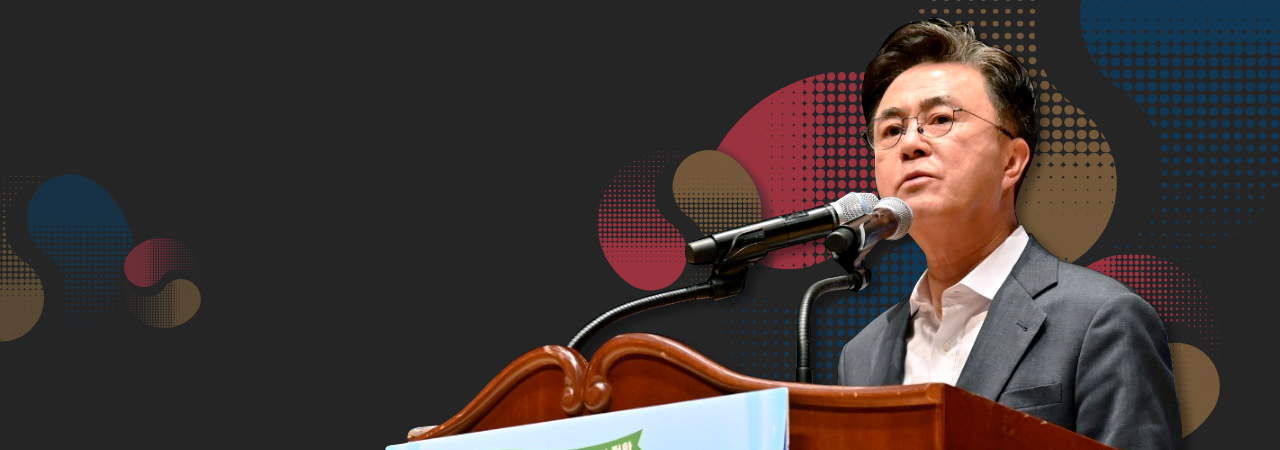
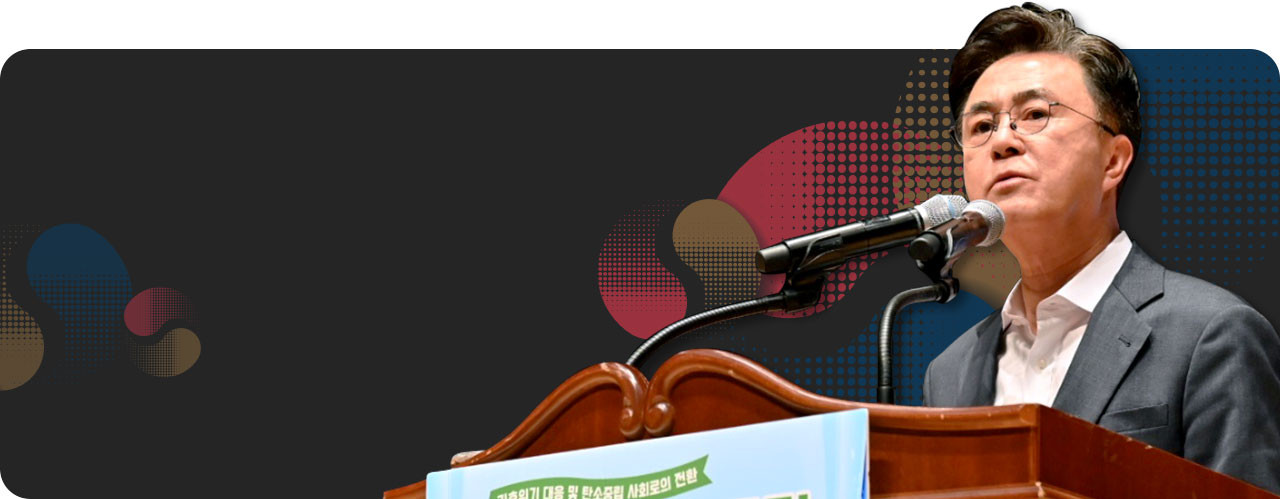
메인페이지 배너 콘텐츠 수정

diff --git a/index.html b/index.html
@@ -135,10 +135,10 @@
             <div class="main_economy_wrap">
               <!-- item { -->
               <div class="main_economy_box">
-                <a href="./sub/future.html" class="main_economy_item item01">
+                <a href="./sub/living.html" class="main_economy_item item04">
                   <div class="f_gmarket text_box">
-                    <p class="text01">미래경제</p>
-                    <p class="text02">저탄소 新산업</p>
+                    <p class="text02">도민 탄소중립 확산</p>
+                    <p class="text01">생활경제</p>
                   </div>
                 </a>
               </div>
@@ -147,8 +147,8 @@
               <div class="main_economy_box">
                 <a href="./sub/transitional.html" class="main_economy_item item02">
                   <div class="f_gmarket text_box">
-                    <p class="text01">전환경제</p>
                     <p class="text02">에너지 전환</p>
+                    <p class="text01">전환경제</p>
                   </div>
                 </a>
               </div>
@@ -157,18 +157,18 @@
               <div class="main_economy_box">
                 <a href="./sub/circular.html" class="main_economy_item item03">
                   <div class="f_gmarket text_box">
-                    <p class="text01">순환경제</p>
                     <p class="text02">산업구조 저탄소화</p>
+                    <p class="text01">순환경제</p>
                   </div>
                 </a>
               </div>
               <!-- } item -->
               <!-- item { -->
               <div class="main_economy_box">
-                <a href="./sub/living.html" class="main_economy_item item04">
+                <a href="./sub/future.html" class="main_economy_item item01">
                   <div class="f_gmarket text_box">
-                    <p class="text01">생활경제</p>
-                    <p class="text02">도민 탄소중립 확산</p>
+                    <p class="text02">저탄소 新산업</p>
+                    <p class="text01">미래경제</p>
                   </div>
                 </a>
               </div>

diff --git a/src/css/normal.css b/src/css/normal.css
@@ -54,14 +54,12 @@
 .main_banner_wrap {margin: -30px;}
 .main_banner_box {padding: 30px;}
 .main_banner_item {border-radius: 30px; display: block; position: relative; overflow: hidden; font-size: 0;}
-.main_banner_item.item01 {}
-.main_banner_item.item02 {}
-.main_banner_item.item03 {}
 .main_banner_bg {position: relative; height: 0; padding-bottom: 35.157%;}
 .main_banner_bg img {position: absolute; top: 50%; left: 50%; transform: translate(-50%,-50%); width: 100%;}
 .main_banner_text {font-weight: 700; font-size: 3.5rem; line-height: 1.17; color: #fff;}
 .main_banner_text .green {font-size: 4.25rem; color: #57e5bb;}
-.main_banner_item.item01 .main_banner_text {position: absolute; top: 4.1875rem; left: 4.1875rem;}
+.main_banner_item.item01 .main_banner_bg {padding-bottom: 39%;}
+.main_banner_item.item01 .main_banner_text {position: absolute; top: 8rem; left: 4.1875rem;}
 .main_banner_item.item02 .main_banner_text {position: absolute; top: 47%; left: 50%; transform: translate(-50%,-50%); max-width: 100%;  font-size: 3.75rem; color: #fff; line-height: 1; white-space: nowrap;}
 .main_banner_item.item02 .main_banner_text:after {content: attr(data-shadow-text); position: absolute; top: 0; left: 0; z-index: -1; color: #303c98; -webkit-text-stroke: 14px;}
 .main_banner_item.item03 .main_banner_text {position: absolute; top: 37%; left: 50%; transform: translate(-50%,-50%); font-size: 0; font-weight: 700; font-size: 3.75rem; line-height: 1.266; text-align: center;}
@@ -79,7 +77,7 @@
 
 .main_economy_item .text_box {}
 .main_economy_item .text_box .text01 {font-weight: 700; font-size: 3.75rem; line-height: 1.26;}
-.main_economy_item .text_box .text02 {font-weight: 500; font-size: 1.625rem;}
+.main_economy_item .text_box .text02 {font-weight: 500; font-size: 1.625rem; margin-bottom: 0.3rem;}
 
 .main_economy_item.item01 .text_box {color: #303c98;}
 .main_economy_item.item02 .text_box {color: #7d2020;}
